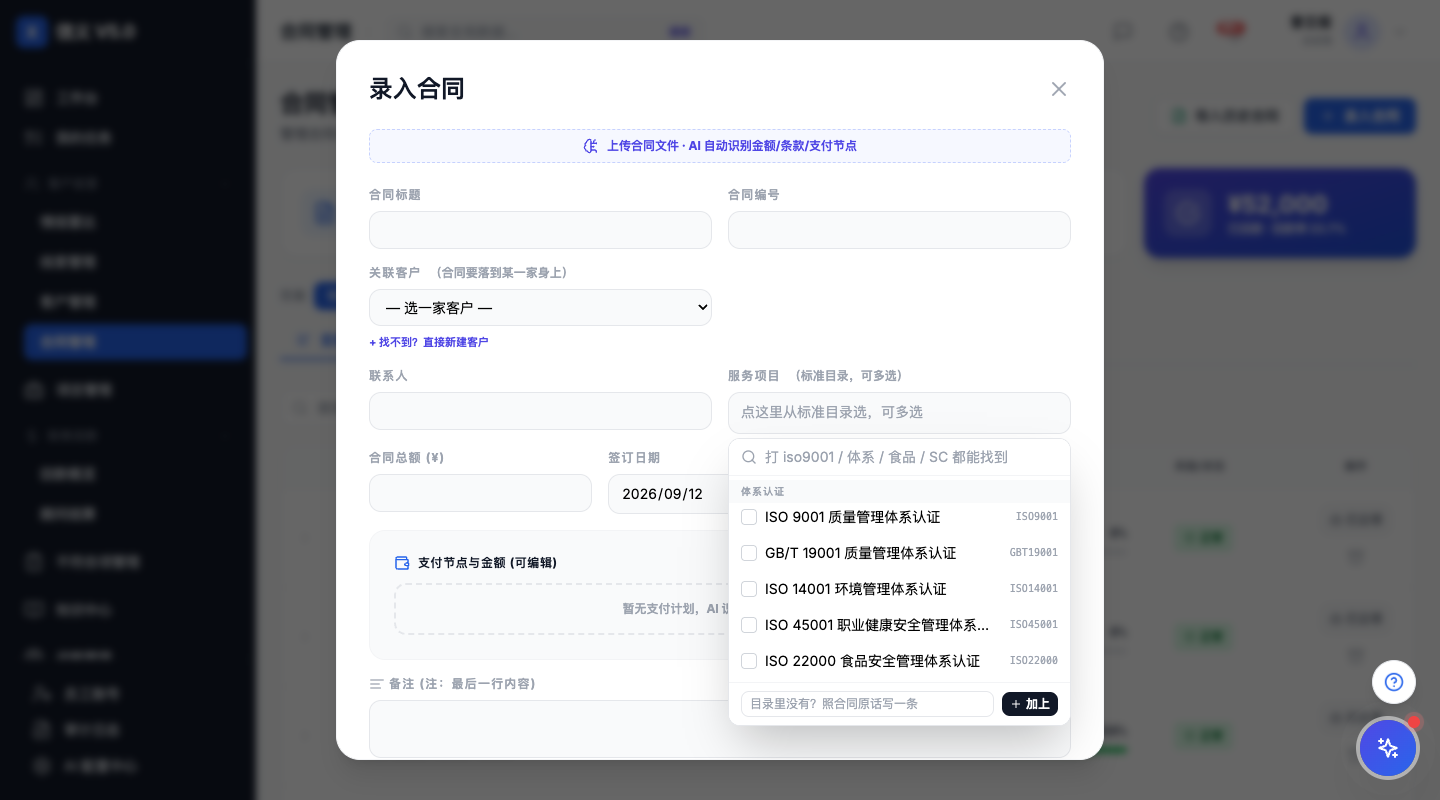
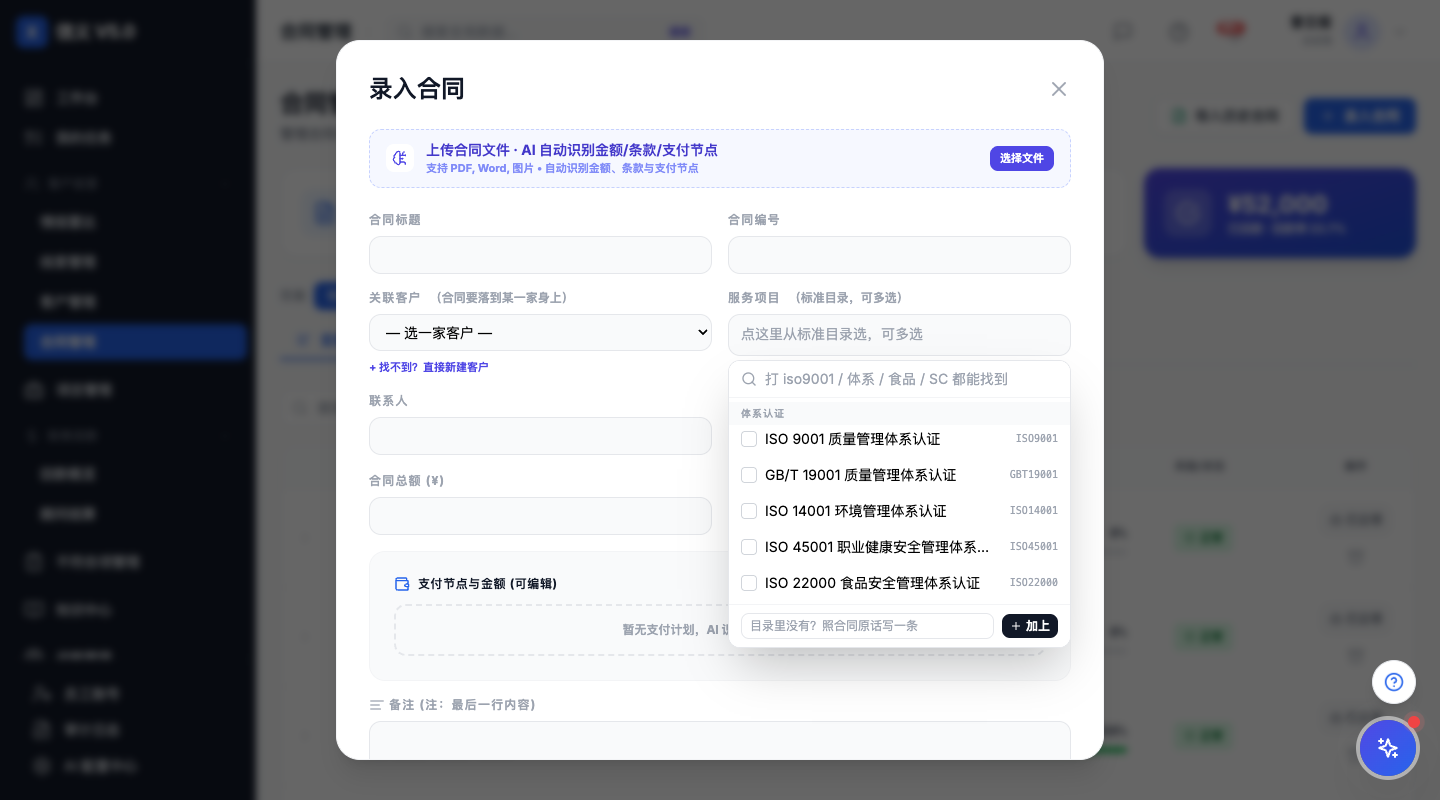
style: 按他的方案重排合同表单 —— 服务项目补到客户旁边，一石二鸟
金恩来：「你这个改法，不是最优解啊！为什么把关联客户拉长，这样变得
不协调和难看，为什么不把服务项目移动到原来客户名称的位置，
这样不用移动到下面，也能看全下拉菜单了不是吗？」

他是对的。我上一版是**把洞撑开**（关联客户拉满整行），
他说的是**把洞填上** —— 而且填进去的那个正好是
「位置越高、下拉越有地方展开」的那个字段。一个动作解决两件事。

改完整张表统一成两列，不再是 2/1/2/3 混着：
  合同标题 │ 合同编号      ← 这份合同是什么
  关联客户 │ 服务项目      ← 给谁做、做什么（最关键的两项）
  联系人   │ 签订日期
  合同总额 │ 支付方式      ← 钱放一起

实测：两个标签行差 0px、列距 359px（真并排）；
下拉现在是**向下**展开且整块在屏内（800 高 360~648 / 900 高 365~653）——
不再依赖我上一版加的「往上翻」兜底（那条逻辑留着，小屏仍有用）。

中间踩了一个坑，值得记：AI 对照那段原来是 grid 的第三个子元素，
没内容时渲染 null，**但格子还在** —— 于是排成 [客户][空]、[服务][空]，
服务项目被挤到第二行左边，看起来像没挪成功。
**不可见 ≠ 不占位**，grid 里最容易忘这条。测试里钉死了
「关联客户和服务项目之间不许有别的格子」，证伪过：塞回去立刻变红。

583 条测试全过；关联客户那条链路 6 项回归通过。

diff --git a/pages/Contracts.tsx b/pages/Contracts.tsx
@@ -1728,7 +1728,25 @@ const Contracts = () => {
 
                           改成整行：洞没了，附属内容也终于有地方站。
                         */}
-                        <div className="grid grid-cols-1 gap-4">
+                        {/*
+                          ── 重排（2026-09-12 三改）──────────────────────────────
+
+                          金恩来：「为什么把关联客户拉长，这样变得不协调和难看，
+                          为什么不把服务项目移动到原来客户名称的位置，
+                          这样不用移动到下面，也能看全下拉菜单了不是吗？」
+
+                          他是对的，而且一石二鸟 ——
+                          我上一版是**把洞撑开**（关联客户拉满整行），
+                          他说的是**把洞填上**，而且填进去的那个正好是
+                          「位置越高、下拉越有地方展开」的那个字段。
+
+                          连带把整张表统一成两列，不再是 2/1/2/3 混着：
+                            合同标题 │ 合同编号      ← 这份合同是什么
+                            关联客户 │ 服务项目      ← 给谁做、做什么（最关键的两项）
+                            联系人   │ 签订日期
+                            合同总额 │ 支付方式      ← 钱放一起
+                        */}
+                        <div className="grid grid-cols-2 gap-4">
                           <div>
                             {/*
                               ── 合同必须落到某一家客户身上（2026-09-12）────────────
@@ -1753,8 +1771,7 @@ const Contracts = () => {
                               关联客户 <span className="ml-1 font-bold normal-case tracking-normal text-gray-400">（合同要落到某一家身上）</span>
                             </label>
                             <select
-                              /* 控件宽度跟内容走：一个公司名不需要占满整行 */
-                              className="w-full max-w-md px-3 py-2 border border-gray-200 bg-gray-50 rounded-xl focus:ring-2 focus:ring-blue-500/20 focus:outline-none text-sm"
+                              className="w-full px-3 py-2 border border-gray-200 bg-gray-50 rounded-xl focus:ring-2 focus:ring-blue-500/20 focus:outline-none text-sm"
                               value={formData.customerId}
                               onChange={(e) => applyCustomerSelection(e.target.value)}
                             >
@@ -1804,8 +1821,16 @@ const Contracts = () => {
                                 {contractCustomerNotice}
                               </p>
                             )}
-                          </div>
-                          <div>
+                            {/*
+                              下面这段（不绑定时的名称框 + AI 对照行）**并进这一格**，
+                              不能自己占一个格子。
+
+                              2026-09-12 三改时踩到：它原来是 grid 的第三个子元素，
+                              没内容时渲染成 null，但**格子还在** ——
+                              于是 grid-cols-2 排成 [关联客户][空]、[服务项目][空]，
+                              服务项目被挤到第二行左边，看起来像没挪成功。
+                              **不可见 ≠ 不占位**，这一条在 grid 里最容易忘。
+                            */}
                             {/*
                               ── 「客户名称」不再是一个要人填的框（2026-09-12）──────
 
@@ -1866,12 +1891,6 @@ const Contracts = () => {
                               </div>
                             )}
                           </div>
-                        </div>
-                        <div className="grid grid-cols-2 gap-4">
-                          <div>
-                            <label className="block text-xs font-black text-gray-400 uppercase tracking-widest mb-2">联系人</label>
-                            <input type="text" className="w-full px-3 py-2 border border-gray-200 bg-gray-50 rounded-xl focus:ring-2 focus:ring-blue-500/20 focus:outline-none text-sm" value={formData.contactPerson} onChange={e => setFormData({...formData, contactPerson: e.target.value})} />
-                          </div>
                           <div>
                             {/*
                               服务项目改成「从标准目录多选」（2026-09-12）。
@@ -1899,7 +1918,14 @@ const Contracts = () => {
                             />
                           </div>
                         </div>
-                        <div className="grid grid-cols-3 gap-4"> <div> <label className="block text-xs font-black text-gray-400 uppercase tracking-widest mb-2">合同总额 (¥)</label> <input required type="number" className="w-full px-3 py-2 border border-gray-200 bg-gray-50 rounded-xl focus:ring-2 focus:ring-blue-500/20 focus:outline-none text-sm font-mono font-bold" value={formData.amount} onChange={e => setFormData({...formData, amount: e.target.value})} /> </div> <div> <label className="block text-xs font-black text-gray-400 uppercase tracking-widest mb-2">签订日期</label> <input required type="date" className="w-full px-3 py-2 border border-gray-200 bg-gray-50 rounded-xl focus:ring-2 focus:ring-blue-500/20 focus:outline-none text-sm" value={formData.signDate} onChange={e => setFormData({...formData, signDate: e.target.value})} /> </div> <div> <label className="block text-xs font-black text-gray-400 uppercase tracking-widest mb-2">支付方式</label> <input type="text" className="w-full px-3 py-2 border border-gray-200 bg-gray-50 rounded-xl focus:ring-2 focus:ring-blue-500/20 focus:outline-none text-sm" value={formData.paymentMethod} onChange={e => setFormData({...formData, paymentMethod: e.target.value})} /> </div> </div>
+                        <div className="grid grid-cols-2 gap-4">
+                          <div>
+                            <label className="block text-xs font-black text-gray-400 uppercase tracking-widest mb-2">联系人</label>
+                            <input type="text" className="w-full px-3 py-2 border border-gray-200 bg-gray-50 rounded-xl focus:ring-2 focus:ring-blue-500/20 focus:outline-none text-sm" value={formData.contactPerson} onChange={e => setFormData({...formData, contactPerson: e.target.value})} />
+                          </div>
+                          <div> <label className="block text-xs font-black text-gray-400 uppercase tracking-widest mb-2">签订日期</label> <input required type="date" className="w-full px-3 py-2 border border-gray-200 bg-gray-50 rounded-xl focus:ring-2 focus:ring-blue-500/20 focus:outline-none text-sm" value={formData.signDate} onChange={e => setFormData({...formData, signDate: e.target.value})} /> </div>
+                        </div>
+                        <div className="grid grid-cols-2 gap-4"> <div> <label className="block text-xs font-black text-gray-400 uppercase tracking-widest mb-2">合同总额 (¥)</label> <input required type="number" className="w-full px-3 py-2 border border-gray-200 bg-gray-50 rounded-xl focus:ring-2 focus:ring-blue-500/20 focus:outline-none text-sm font-mono font-bold" value={formData.amount} onChange={e => setFormData({...formData, amount: e.target.value})} /> </div> <div> <label className="block text-xs font-black text-gray-400 uppercase tracking-widest mb-2">支付方式</label> <input type="text" className="w-full px-3 py-2 border border-gray-200 bg-gray-50 rounded-xl focus:ring-2 focus:ring-blue-500/20 focus:outline-none text-sm" value={formData.paymentMethod} onChange={e => setFormData({...formData, paymentMethod: e.target.value})} /> </div> </div>
                         <div className="bg-gray-50 p-6 rounded-2xl border border-gray-100"> <div className="flex justify-between items-center mb-3"> <h4 className="text-xs font-black text-gray-900 uppercase tracking-wider flex items-center"> <Wallet className="w-4 h-4 mr-2 text-blue-600" /> 支付节点与金额 (可编辑) </h4> <button type="button" onClick={addReceivable} className="text-xs font-bold text-blue-600 hover:underline flex items-center"> <Plus className="w-3 h-3 mr-1" /> 添加款项节点 </button> </div> {extractedReceivables.length === 0 && ( <div className="text-center text-gray-400 text-xs py-4 border-2 border-dashed border-gray-200 rounded-xl font-bold"> 暂无支付计划，AI 识别后将在此显示 </div> )} <div className="space-y-2"> {extractedReceivables.map((r, idx) => ( <div key={idx} className="flex space-x-2 items-center"> <div className="flex-1"> <input type="text" className="w-full px-3 py-2 text-sm font-bold border border-gray-200 rounded-lg focus:border-blue-500 focus:outline-none" value={r.node} onChange={(e) => handleReceivableChange(idx, 'node', e.target.value)} placeholder="节点名称 (如: 首付款)" /> </div> <div className="w-32 relative"> <span className="absolute left-2 top-2 text-xs text-gray-400">¥</span> <input type="number" className="w-full pl-6 pr-2 py-2 text-sm border border-gray-200 rounded-lg focus:border-blue-500 focus:outline-none font-mono font-bold" value={r.amount} onChange={(e) => handleReceivableChange(idx, 'amount', Number(e.target.value))} placeholder="金额" /> </div> <div className="w-36"> <input type="date" className="w-full px-2 py-2 text-sm border border-gray-200 rounded-lg focus:border-blue-500 focus:outline-none" value={r.dueDate} onChange={(e) => handleReceivableChange(idx, 'dueDate', e.target.value)} /> </div> <button type="button" onClick={() => removeReceivable(idx)} className="text-gray-400 hover:text-red-500 p-2 hover:bg-red-50 rounded-lg transition-colors" > <Trash2 className="w-4 h-4" /> </button> </div> ))} </div> </div>
                         <div> <label className="block text-xs font-black text-gray-400 uppercase tracking-widest mb-2 flex items-center"> <AlignLeft className="w-4 h-4 mr-1" /> 备注 (注：最后一行内容) </label> <textarea className="w-full px-3 py-2 border border-gray-200 bg-gray-50 rounded-xl focus:ring-2 focus:ring-blue-500/20 focus:outline-none text-sm resize-none" rows={2} value={formData.remarks} onChange={e => setFormData({...formData, remarks: e.target.value})} ></textarea> </div>
                         <div className="bg-blue-50 p-4 rounded-xl border border-blue-100 flex items-start"> <div className="flex items-center h-5"> <input id="createProject" name="createProject" type="checkbox" className="focus:ring-blue-500 h-4 w-4 text-blue-600 border-gray-300 rounded" checked={formData.createProject} onChange={e => setFormData({...formData, createProject: e.target.checked})} /> </div> <div className="ml-3 text-sm"> <label htmlFor="createProject" className="font-bold text-blue-900">同时创建合同项目 (推荐)</label> <p className="text-blue-700 text-xs mt-0.5">勾选后将自动在“项目管理”中生成对应项目，项目回款状态将自动同步此处的支付计划。</p> </div> </div>

diff --git a/tests/contract-visibility.test.js b/tests/contract-visibility.test.js
@@ -212,7 +212,7 @@ test('compact 上传区要能拖拽，而且看得见', () => {
   assert.match(branch, /subLabel/, 'compact 里没有副标题，看不出这么做能省什么');
 });
 
-test('关联客户占整行 —— 右边不许再空一格', () => {
+test('关联客户与服务项目并排 —— 右边不许空着，也不许把左边拉长', () => {
   /*
     「少了客户名称后，那里空着，排版看起来有点奇怪」。
 
@@ -220,11 +220,26 @@ test('关联客户占整行 —— 右边不许再空一格', () => {
     而左边那一格还挂着三样附属内容（新建口子、AI 对照行、
     不绑定时的名称框），挤在半行里本来就局促。
   */
+  /*
+    2026-09-12 三改。金恩来：「为什么把关联客户拉长，这样变得不协调和难看，
+    为什么不把服务项目移动到原来客户名称的位置，这样不用移动到下面，
+    也能看全下拉菜单了不是吗？」
+
+    他是对的，而且一石二鸟：我上一版是**把洞撑开**（关联客户拉满整行），
+    他说的是**把洞填上**，填进去的那个正好是
+    「位置越高、下拉越有地方展开」的那个字段。
+    改完下拉是向下开的，不再需要翻转。
+
+    另外记一个坑：AI 对照那段原来是 grid 的第三个子元素，
+    没内容时渲染 null，**但格子还在** —— 于是排成 [客户][空]、[服务][空]，
+    服务项目被挤到第二行。**不可见 ≠ 不占位**，grid 里最容易忘这条。
+  */
   const page = code('pages/Contracts.tsx');
-  const at = page.indexOf('关联客户');
-  const before = page.slice(Math.max(0, at - 600), at);
-  assert.ok(!/grid-cols-2 gap-4">\s*<div>\s*$/.test(before),
-    '关联客户又被塞回两列里了，右边会空一格');
-  assert.match(page, /grid grid-cols-1 gap-4">[\s\S]{0,1200}?关联客户/,
-    '关联客户不是整行');
+  assert.ok(!/grid grid-cols-1 gap-4/.test(page),
+    '又把某一行改成单列了 —— 那是「把洞撑开」，不是填上');
+  // 关联客户和服务项目必须落在同一个 grid 容器里，且中间没有别的格子
+  const at = page.indexOf('关联客户 <span');
+  const seg = page.slice(at, page.indexOf('服务项目 <span', at));
+  const cells = (seg.match(/^\s{26}<div>$/gm) || []).length;
+  assert.equal(cells, 1, `关联客户和服务项目之间多出了 ${cells - 1} 个格子 —— 服务项目会被挤到下一行`);
 });
